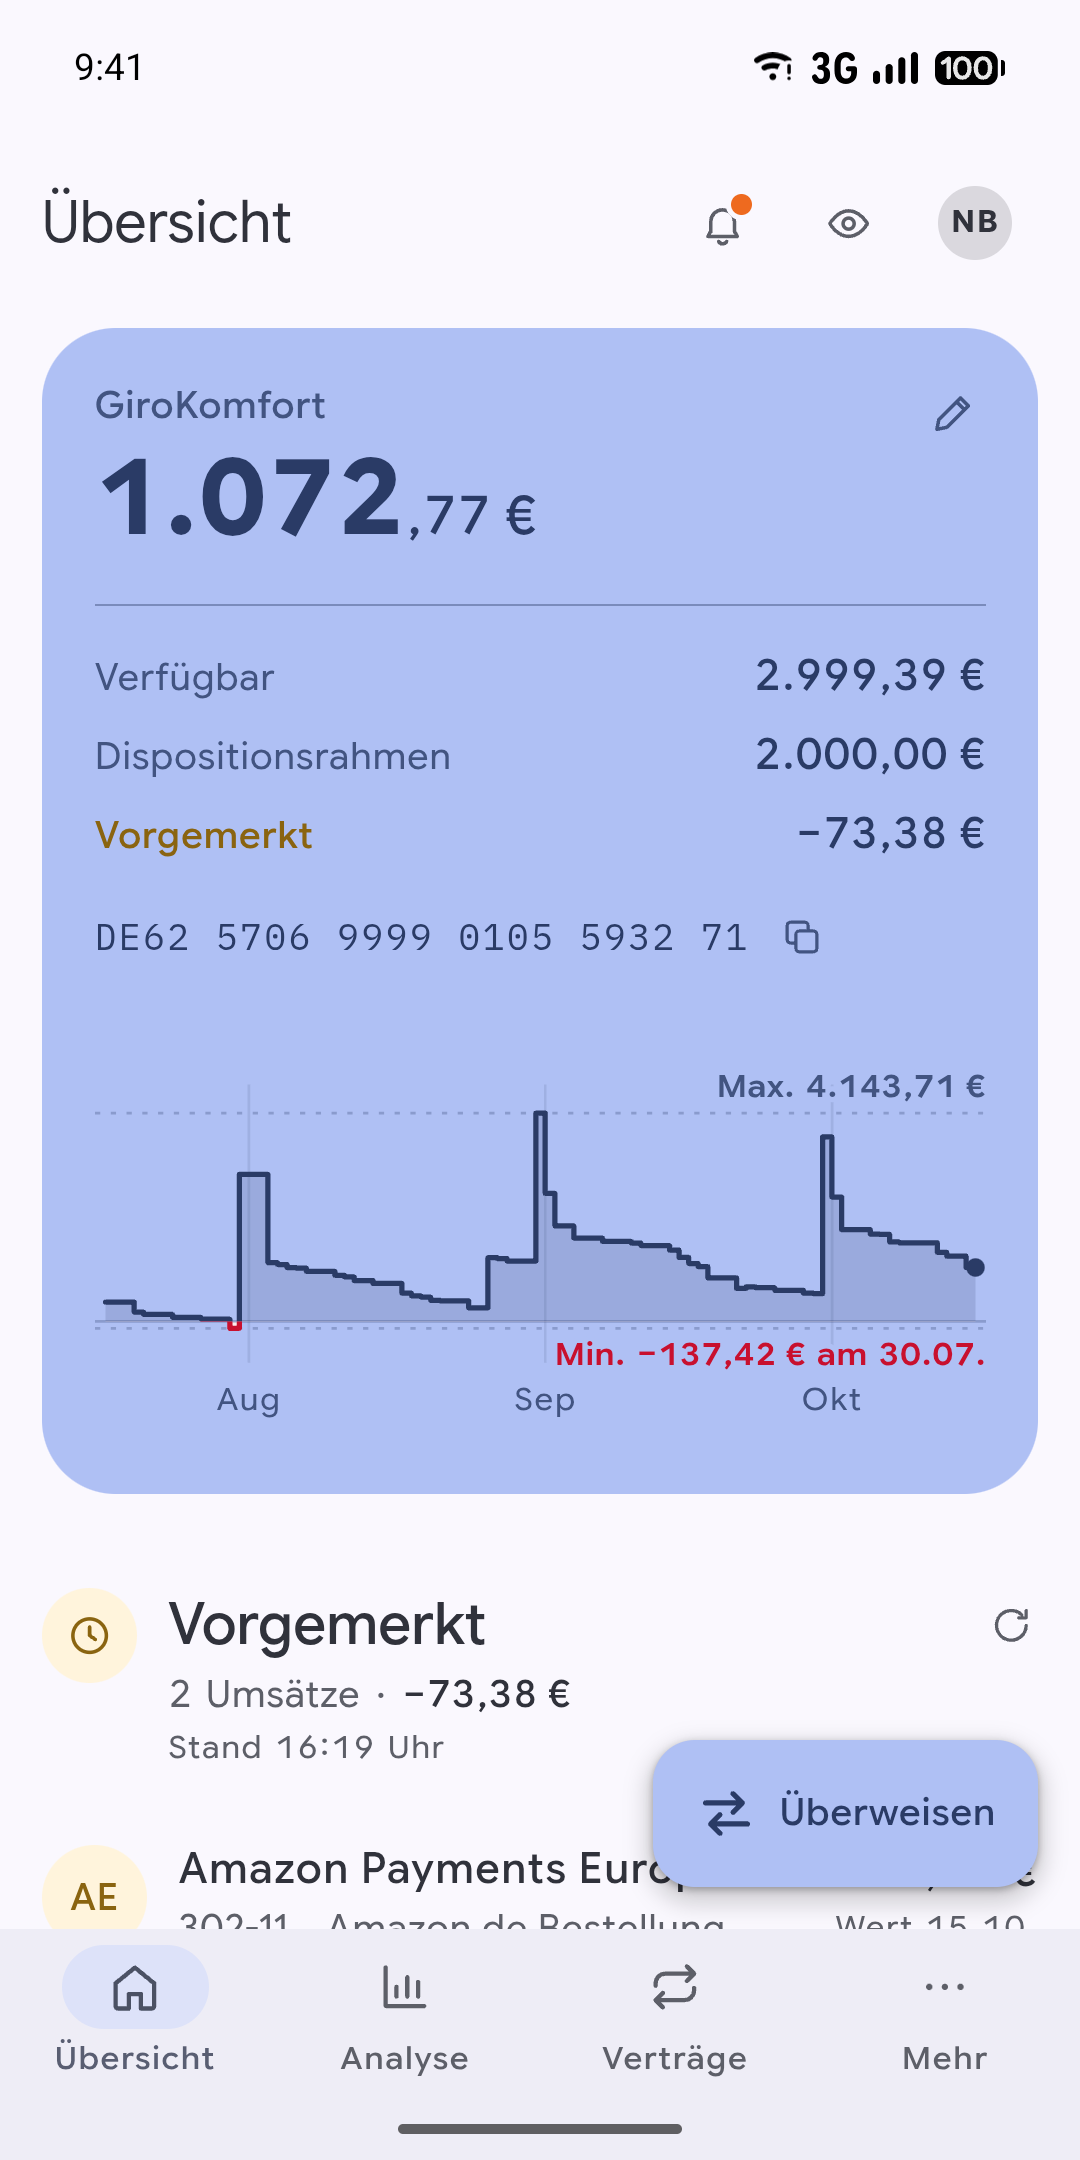
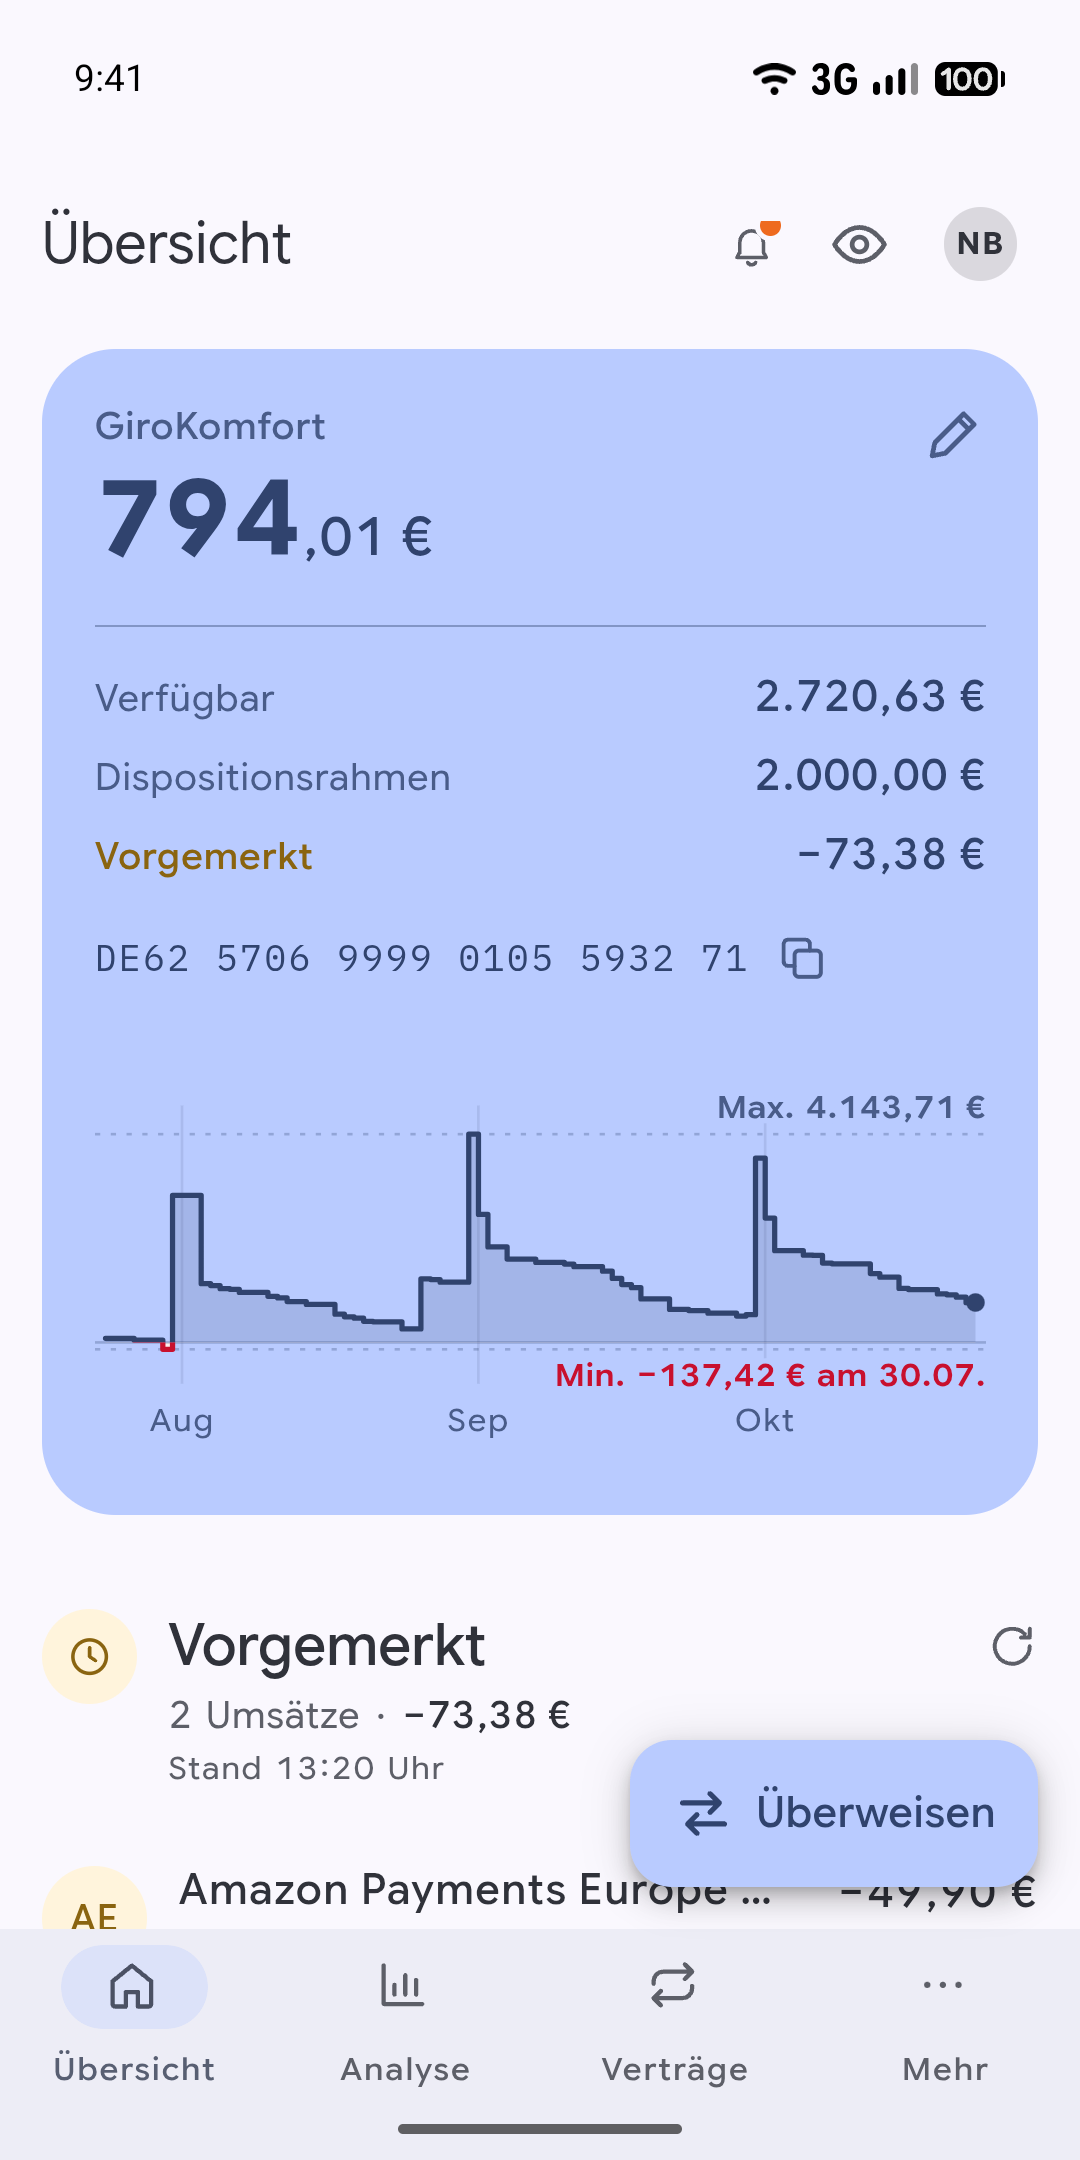
(feat) 5.8.0: Play screenshots
Seven screenshots from the emulator at 1080 x 2160, now with Frag deine Umsätze answering a question; the routine to make them again is written down in android/store/listing.md.

diff --git a/android/store/listing.md b/android/store/listing.md
@@ -11,11 +11,41 @@ translations").
 | Full description | `de-DE/full-description.txt`, `en-US/full-description.txt` | 4,000 characters |
 | App icon | `icon-512.png` — 512 × 512, 32-bit PNG, full square (Play rounds it) | 1 MB |
 | Feature graphic | `feature-graphic.png` — 1024 × 500, 24-bit PNG | 15 MB |
-| Phone screenshots | `screenshots/1-…png` to `6-…png` — 1080 × 2160 (9:18), 24-bit PNG, German interface, in upload order | 2–8 |
+| Phone screenshots | `screenshots/1-…png` to `7-…png` — 1080 × 2160 (9:18, Play's 2:1 limit), 24-bit PNG, German interface, in upload order | 2–8 |
 
-The screenshots show the design preview's sample data (no real account).
-They are made with the emulator: German, light, demo-mode status bar — see
-the screenshot routine in the git history of this folder.
+The screenshots show the design preview's sample data (no real account):
+Übersicht, its Umsätze, "Frag deine Umsätze" answering "Wie viel ging an
+Amazon?", the Analyse's categories, Verträge, a filled-in Überweisung and
+Geld anfordern. Last made for 5.8.0.
+
+### Making them again
+
+On the emulator (`Pixel_10_Pro_XL`), with the debug app loading the Android
+design preview from this computer:
+
+1. `npm run android:preview` (port 3100), and the phone runtime beside it:
+   `node scripts/build-mobile.mjs --out public --dev`
+2. `GIROVO_DEV_SERVER=http://10.0.2.2:3100 npx cap sync android`, then
+   `gradlew assembleGithubDebug` and install it on the emulator
+3. The emulator headless at Play's size — its skin file is missing, so give
+   the size instead: `emulator -avd Pixel_10_Pro_XL -skin 1080x2160 -no-window`
+4. `adb shell wm density 420`, `adb shell cmd uimode night no`, and the
+   demo status bar: `settings put global sysui_demo_allowed 1`, then
+   `am broadcast -a com.android.systemui.demo -e command …` with `enter`,
+   `clock -e hhmm 0941`, `battery -e level 100 -e plugged false`,
+   `network -e wifi show -e level 4 -e fully true`,
+   `network -e mobile show -e datatype none -e level 4 -e fully true`,
+   `notifications -e visible false`
+5. Open each view in the app's WebView over the debug bridge
+   (`adb forward tcp:9333 localabstract:webview_devtools_remote_<pid>`, then
+   CDP `Runtime.evaluate` of `location.href = …`):
+   `/design-preview?view=overview-single`, the same scrolled to "Umsätze",
+   `view=analysis` with the question typed and sent, `view=analysis` scrolled
+   to "Ausgaben nach Kategorie", `view=contracts`, `view=transfer-filled`,
+   `view=share` — each with `&nano=available`. Hide the dev server's badge
+   (`nextjs-portal { display: none }`) before `adb exec-out screencap -p`.
+6. Afterwards: delete `public/mobile-runtime.js` (the desktop build must not
+   find it) and run `npx cap sync android` without `GIROVO_DEV_SERVER`.
 
 ## Store settings
 
